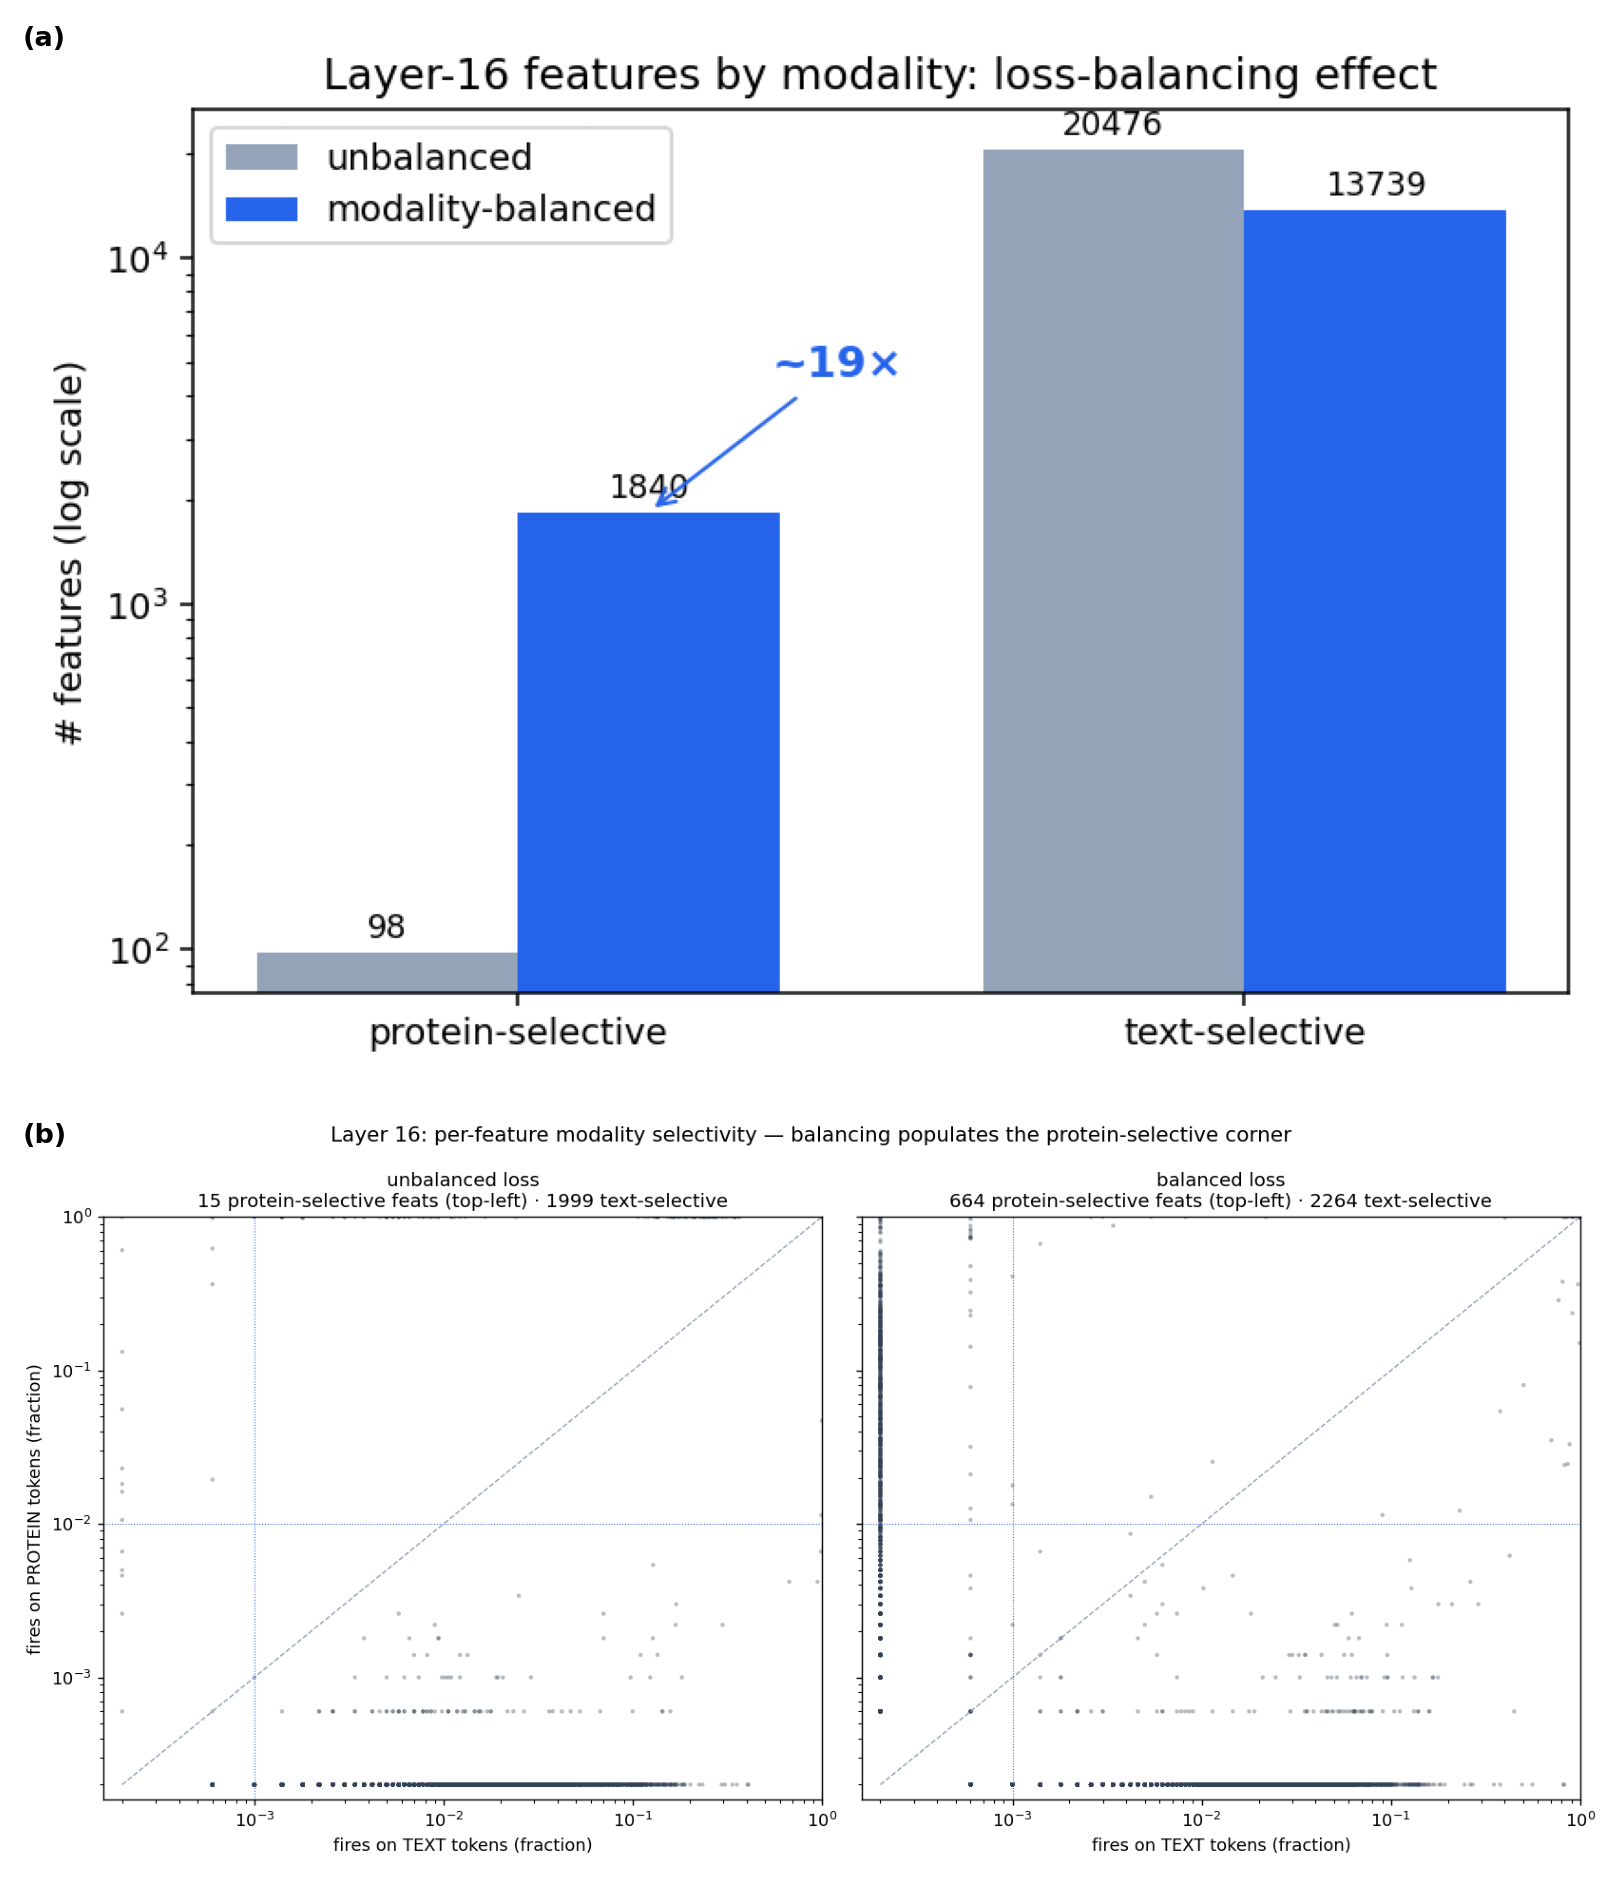
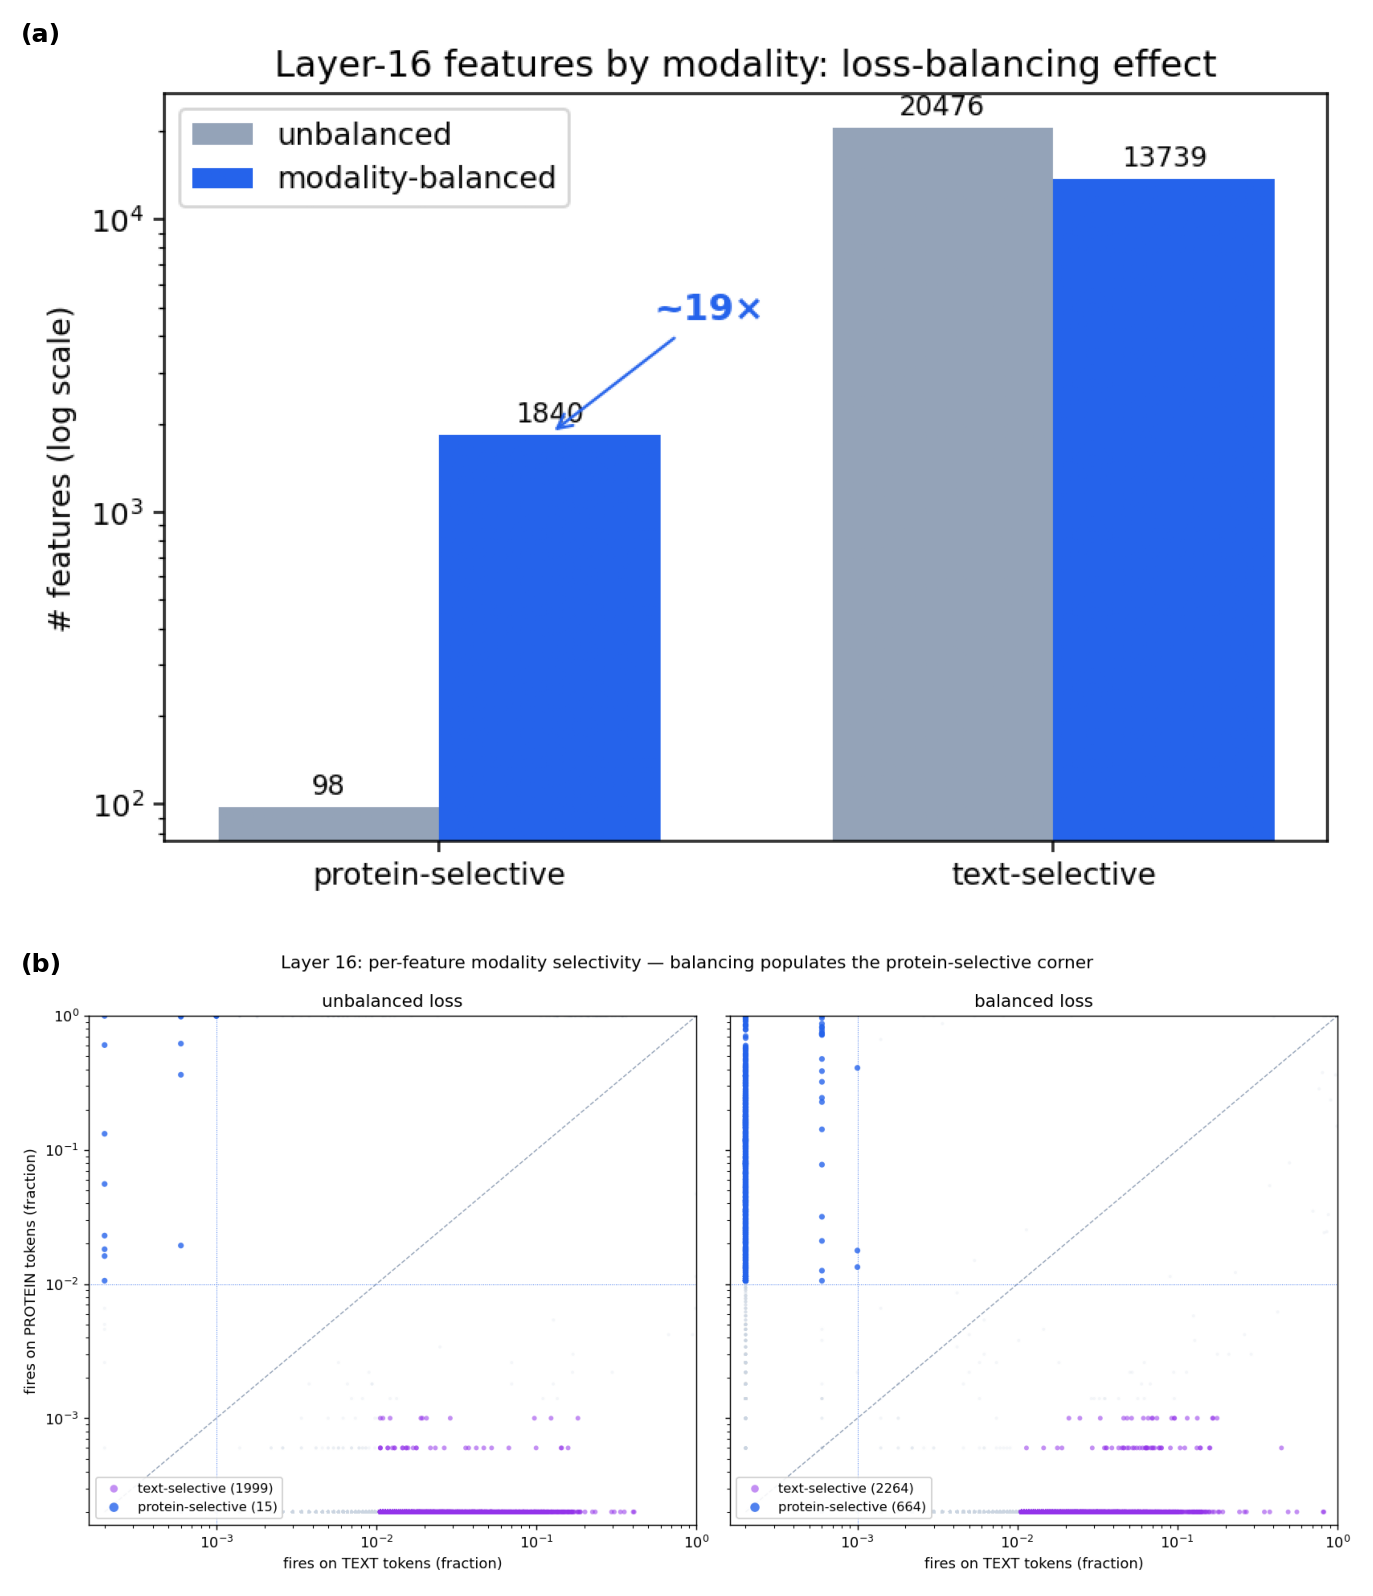
proposal v2: color-code selectivity scatter (protein=blue, text=purple, rest faint) + legend; slightly smaller combined figure

diff --git a/bionemo-recipes/interpretability/sparse_autoencoders/recipes/bioreason_pro/scripts/feature_selectivity.py b/bionemo-recipes/interpretability/sparse_autoencoders/recipes/bioreason_pro/scripts/feature_selectivity.py
@@ -84,15 +84,21 @@ def main():
 
     fig, ax = plt.subplots(1, 2, figsize=(13, 6.2), sharex=True, sharey=True)
     for A, (tag, tf, pf, ps, ts, live) in zip(ax, panels):
-        A.scatter(tf + eps, pf + eps, s=6, alpha=0.35, c="#334155", edgecolors="none")
+        prot_m = (pf > 0.01) & (tf < 0.001)      # protein-selective (top-left)
+        text_m = (tf > 0.01) & (pf < 0.001)      # text-selective (bottom-right)
+        rest_m = ~(prot_m | text_m)
+        A.scatter(tf[rest_m] + eps, pf[rest_m] + eps, s=5, alpha=0.2, c="#cbd5e1", edgecolors="none")
+        A.scatter(tf[text_m] + eps, pf[text_m] + eps, s=11, alpha=0.55, c="#9333ea",
+                  edgecolors="none", label=f"text-selective ({ts})")
+        A.scatter(tf[prot_m] + eps, pf[prot_m] + eps, s=16, alpha=0.8, c="#2563eb",
+                  edgecolors="none", label=f"protein-selective ({ps})")
         A.set_xscale("log"); A.set_yscale("log")
         A.plot([eps, 1], [eps, 1], ls="--", lw=0.8, c="#94a3b8")   # shared diagonal
-        A.axhspan(0.01, 1, xmax=0.0, alpha=0)   # no-op keeps limits
         A.set_xlim(eps * 0.8, 1); A.set_ylim(eps * 0.8, 1)
         A.set_xlabel("fires on TEXT tokens (fraction)")
-        A.set_title(f"{tag}\n{ps} protein-selective feats (top-left) · {ts} text-selective", fontsize=11)
-        # shade the protein-selective corner
-        A.axhline(0.01, color="#2563eb", lw=0.6, ls=":"); A.axvline(0.001, color="#2563eb", lw=0.6, ls=":")
+        A.set_title(f"{tag}", fontsize=12)
+        A.legend(loc="lower left", fontsize=9, framealpha=0.9, markerscale=1.6)
+        A.axhline(0.01, color="#2563eb", lw=0.5, ls=":"); A.axvline(0.001, color="#2563eb", lw=0.5, ls=":")
     ax[0].set_ylabel("fires on PROTEIN tokens (fraction)")
     fig.suptitle(f"Layer {a.layer}: per-feature modality selectivity — balancing populates the "
                  f"protein-selective corner", fontsize=12)
